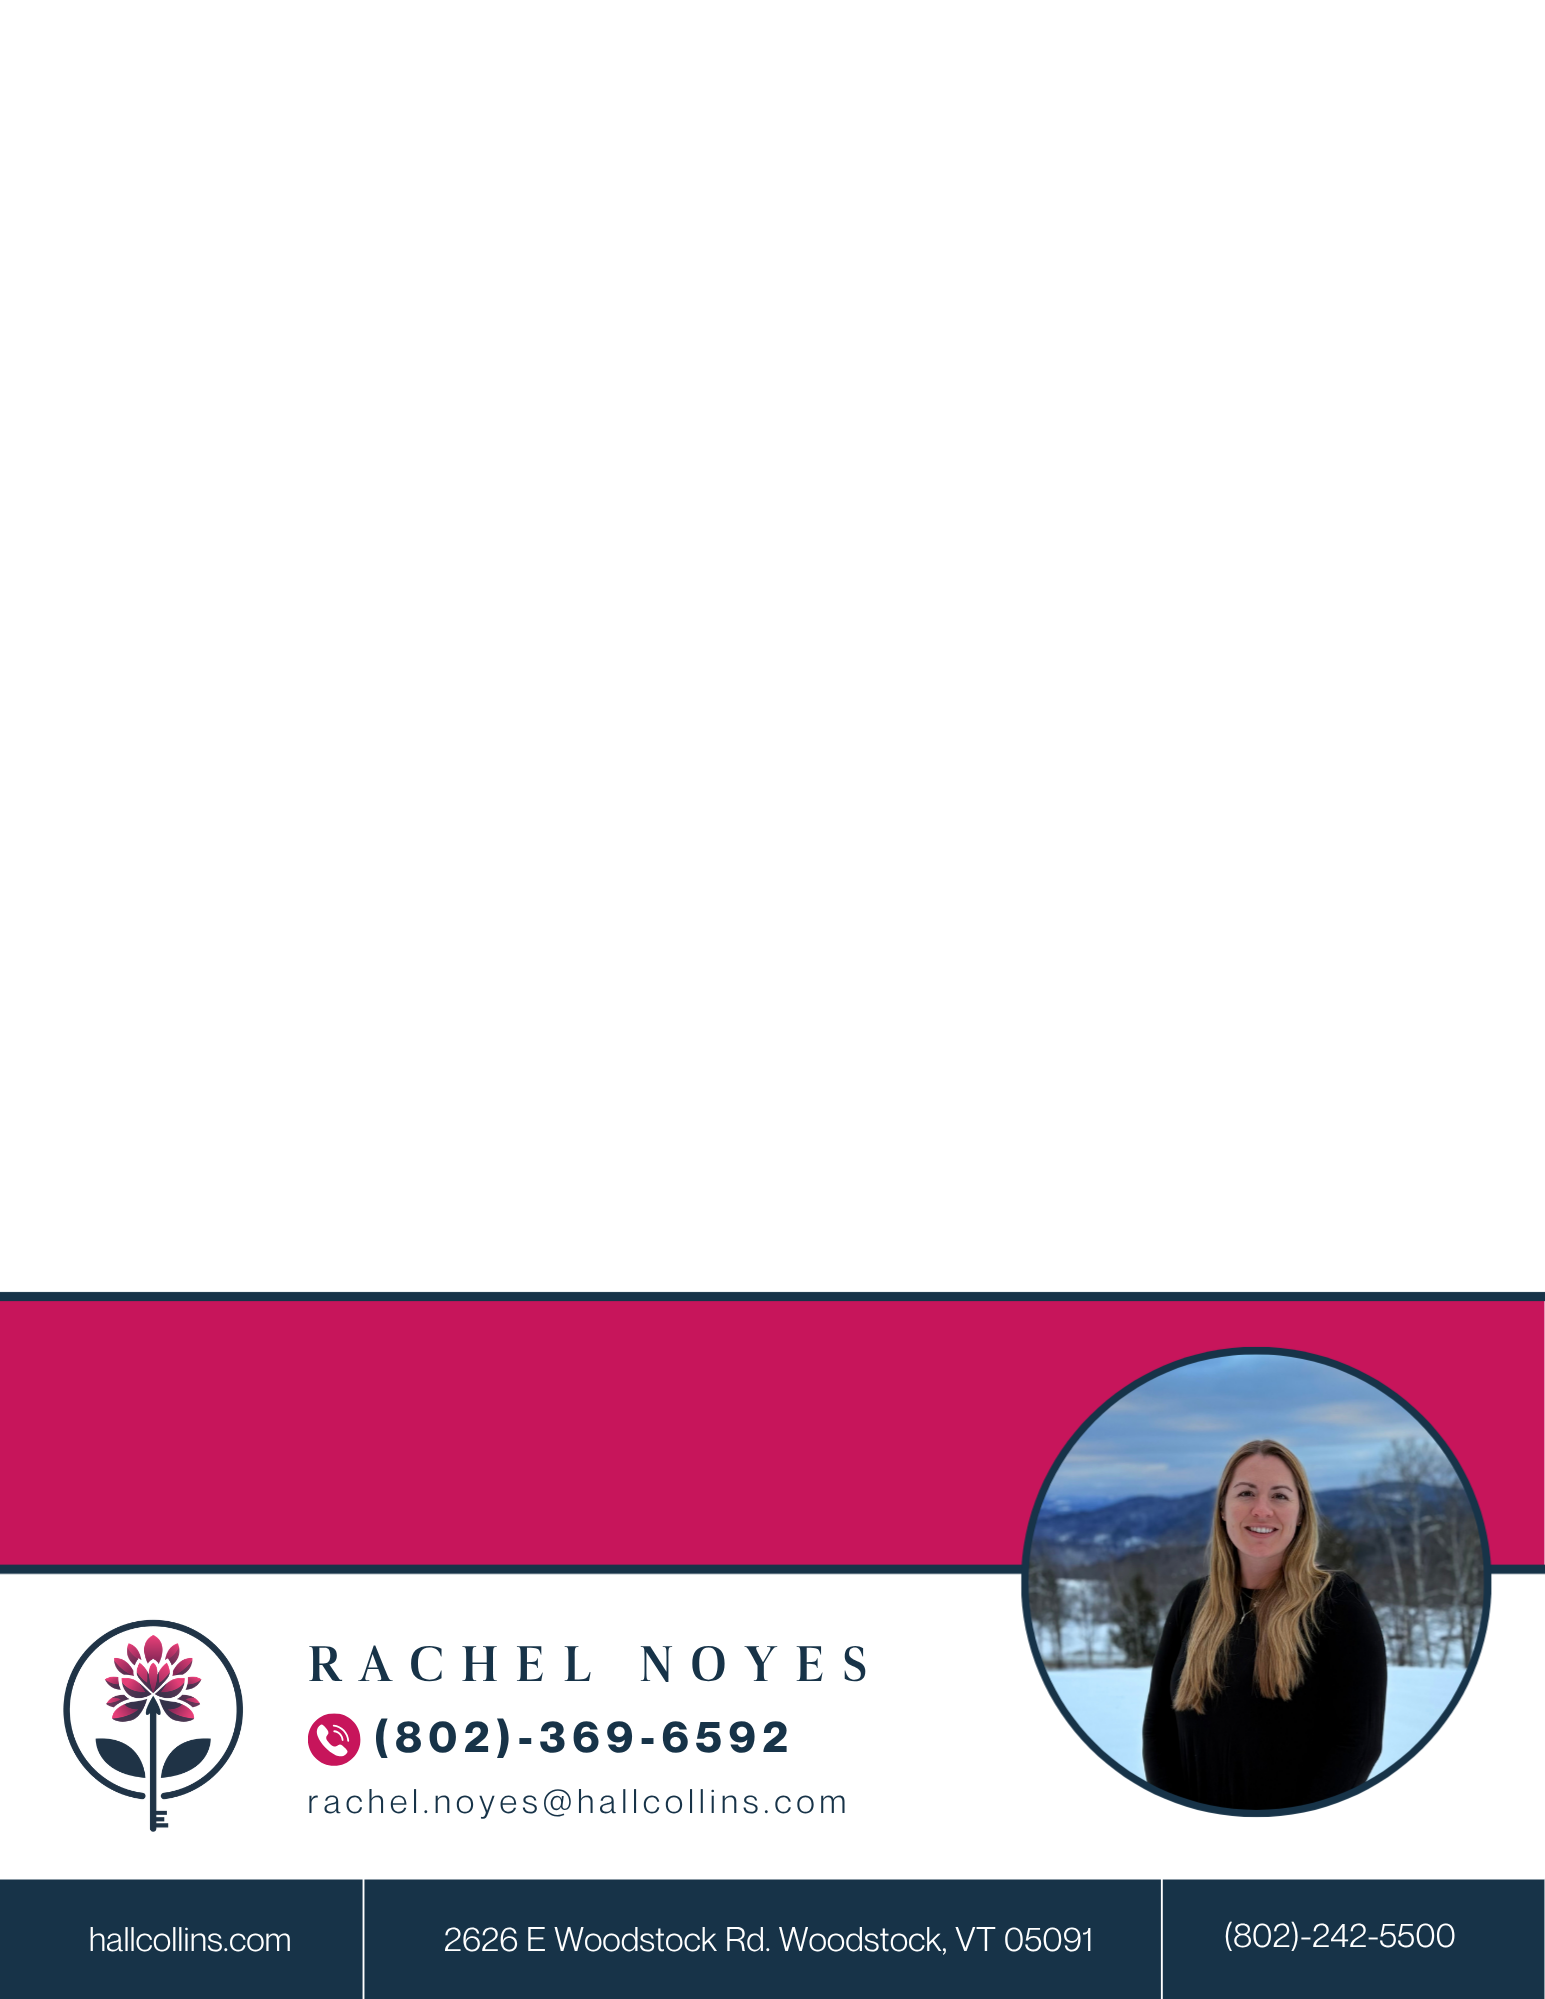
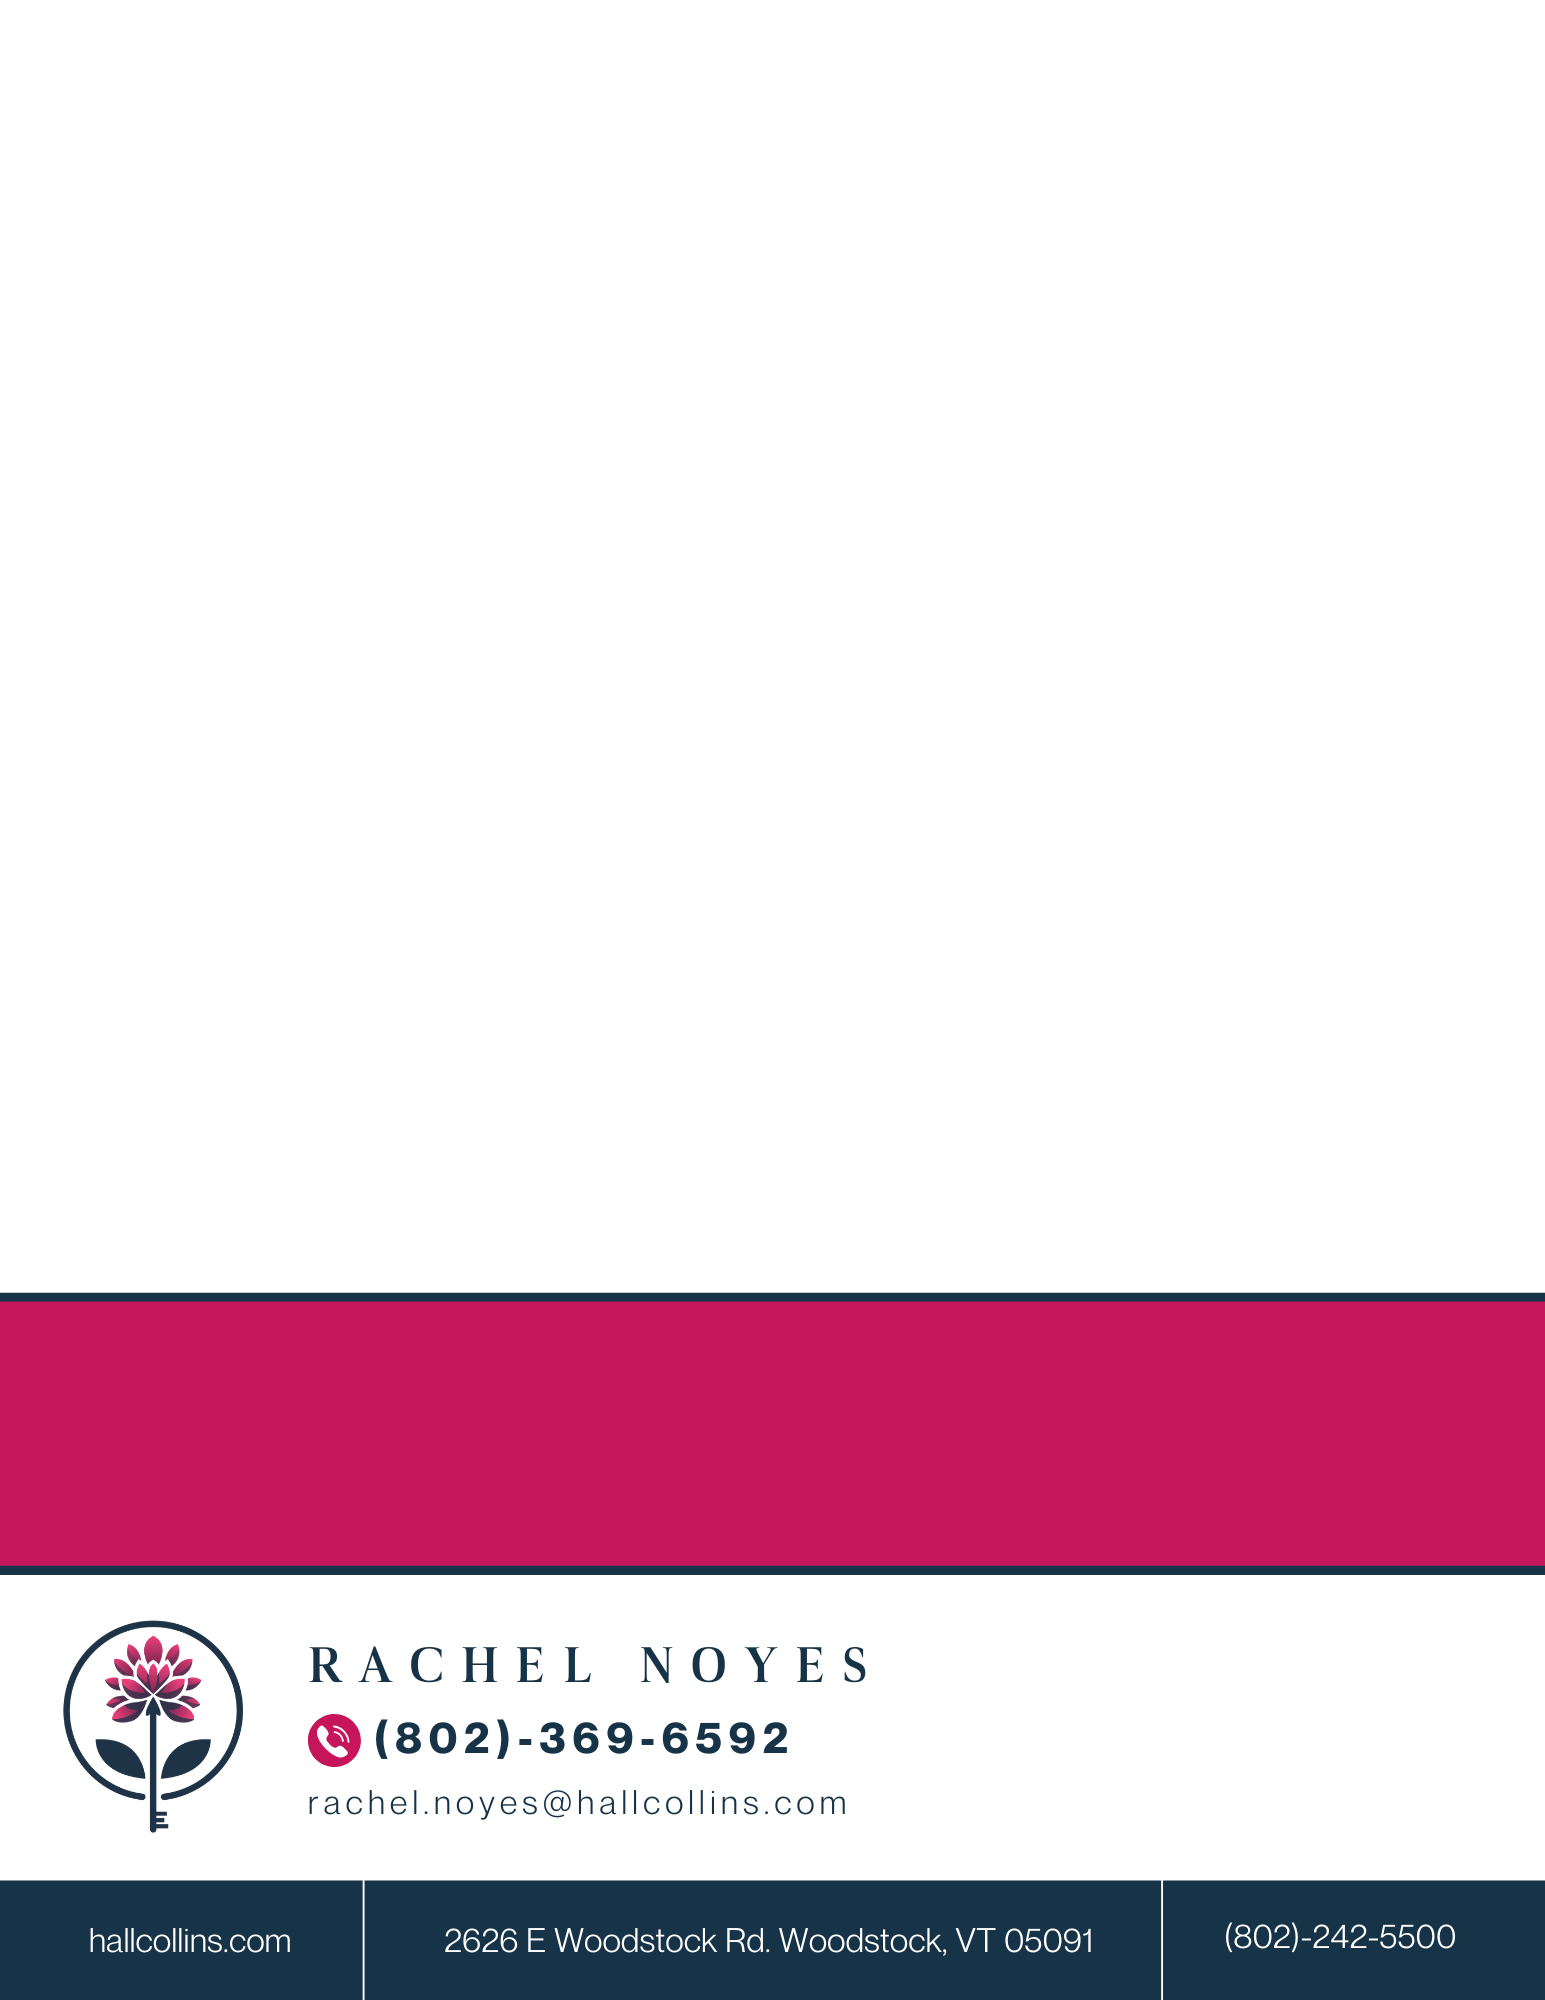
v2.7.1: QR code right-aligned in white contact bar on agent templates, 0.35" from edge

Changed region(s): [[0.6524, 0.6513, 0.9631, 0.9305], [0.9942, 0.6513, 1.0, 0.7754], [0.9942, 0.9615, 1.0, 1.0]]

diff --git a/web_app.py b/web_app.py
@@ -255,7 +255,7 @@ def create_cover_page(photo_bytes, street_address, city_state, output_path, cove
             except Exception as text_e:
                 st.warning(f"Could not add city/state: {text_e}")
         
-        # Add QR code in the bottom-right corner if a URL was provided
+        # Add QR code if a URL was provided
         if qr_url and qr_url.strip() and QRCODE_AVAILABLE:
             try:
                 import qrcode as qr_lib
@@ -273,11 +273,24 @@ def create_cover_page(photo_bytes, street_address, city_state, output_path, cove
                 temp_qr = tempfile.mktemp(suffix='_qr.png')
                 qr_img.save(temp_qr)
                 
-                # Place in bottom-right of the lower band (below the photo)
-                # Lower band is bottom 3.88" of the page; QR sits 0.2" from right, 0.2" from bottom
-                qr_size = 1.1 * inch
-                qr_x = page_width - qr_size - 0.2 * inch
-                qr_y = 0.2 * inch
+                if cover_agent in ("Rachel", "Andrew"):
+                    # Agent templates: center QR code in the white contact info bar
+                    # White bar spans 0.665" to 2.337" from bottom, center at 1.502" from bottom
+                    white_bar_bottom = 0.665 * inch
+                    white_bar_top = 2.337 * inch
+                    white_bar_center_y = (white_bar_bottom + white_bar_top) / 2  # 1.502" from bottom
+                    white_bar_height = white_bar_top - white_bar_bottom          # 1.672"
+                    
+                    # QR size = 80% of bar height so it fits with a little breathing room
+                    qr_size = white_bar_height * 0.80
+                    qr_x = page_width - qr_size - 0.35 * inch  # right side, 0.35" from edge
+                    qr_y = white_bar_center_y - (qr_size / 2)  # vertically centered in bar
+                else:
+                    # Standard template: bottom-right corner fallback
+                    qr_size = 1.1 * inch
+                    qr_x = page_width - qr_size - 0.2 * inch
+                    qr_y = 0.2 * inch
+                
                 c.drawImage(temp_qr, qr_x, qr_y, width=qr_size, height=qr_size)
                 os.unlink(temp_qr)
             except Exception as qr_e:
